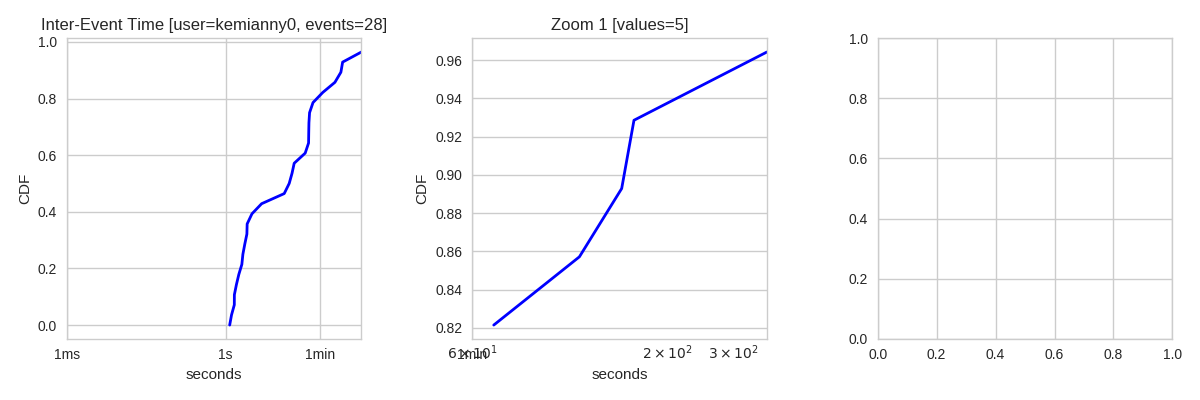
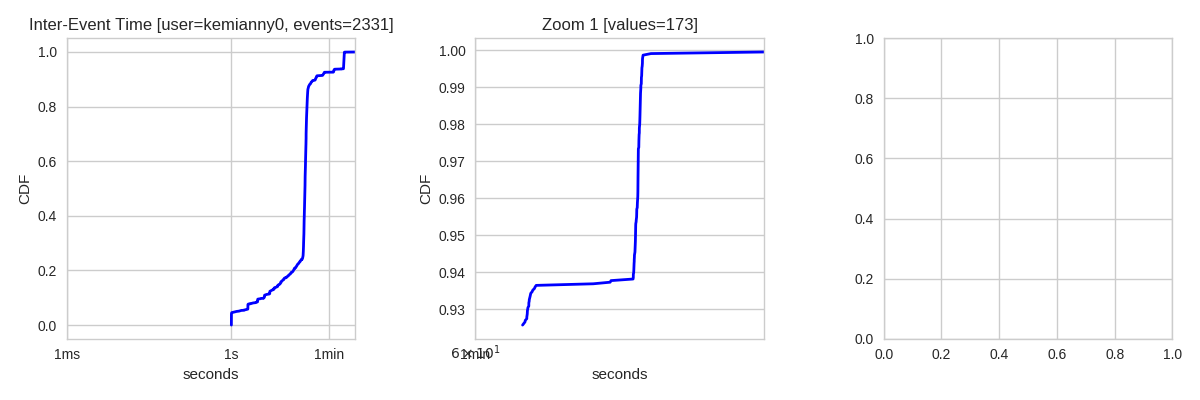
eliminating spikes or intervals depending on theoretical and real conts

diff --git a/inter_event_time_theoretical_count.py b/inter_event_time_theoretical_count.py
@@ -79,14 +79,6 @@ def main():
                         intv += 1
                     interval_list[intv].append(row[0])
 
-                """if url == 'google.com':
-                    print url
-                    for key, values in interval_list.iteritems():
-                        if key >= 0 and key <= 5:
-                            print key
-                            for item in values:
-                                print item"""
-
                 theoretic_count_per_url_list, real_count_per_url_list = calculate_average_periodicity(interval_list)
 
                 if theoretic_count_per_url_list:
@@ -159,13 +151,13 @@ def get_free_spikes_traces(interval_dict, url_domain):
 
     for key in interval_dict.keys():
 
-        if url_domain == 'content.very.co.uk':
+        if url_domain == 'stream1.bskyb.fyre.co':#'http.00.s.sophosxl.net':#'content.very.co.uk':
             iat_list = []
             int_list = interval_dict[key]
             for i in range(0, len(int_list)-1):
                 iat = (int_list[i+1]-int_list[i]).total_seconds()
                 iat_list.append(iat)
-            plot_cdf_interval_times(iat_list, 'kemianny'+str(key), 'main_laptop', 'figs_CDF_theoretic_counts', 'content.very.co.uk')
+            plot_cdf_interval_times(iat_list, 'kemianny'+str(key), 'main_laptop', 'figs_CDF_theoretic_counts', 'stream1.bskyb.fyre.co')
 
 
         distrib_dict = get_interval_distribution(key, interval_dict)
@@ -174,12 +166,12 @@ def get_free_spikes_traces(interval_dict, url_domain):
         for iat_total in distrib_dict.keys():
             #if potential spike
 
-            if url_domain == 'content.very.co.uk':
+            """if url_domain == 'stream1.bskyb.fyre.co':#'http.00.s.sophosxl.net':#'content.very.co.uk':
                 print '===='
                 print url_domain
                 print 'interval size: ' + str(iat_total)
                 print 'appears this many times: ' + str(distrib_dict[iat_total])
-                print 'total number of intervals: ' + str(distrib_dict['total'])
+                print 'total number of intervals: ' + str(distrib_dict['total'])"""
 
 
             if iat_total != 'total' and \
@@ -197,7 +189,7 @@ def get_free_spikes_traces(interval_dict, url_domain):
                     theoretic_count.append(theo_count)
                     real_count.append(re_count)
 
-                    if url_domain == 'content.very.co.uk':
+                    if url_domain == 'stream1.bskyb.fyre.co':
                         print '===='
                         print url_domain
                         print 'interval size: ' + str(iat_total)
@@ -211,13 +203,29 @@ def get_free_spikes_traces(interval_dict, url_domain):
                         error_margin = 0.1
                     else:
                         error_margin = 0.05
+                    if url_domain == 'stream1.bskyb.fyre.co':
+                        print 'recont ' + str(re_count)
+                        print 'limit ' + str(theo_count - theo_count*error_margin)
+                    #take whole interval off
                     if re_count > (theo_count - theo_count*error_margin):
-                        #print 'lele'
+                        print 'lele'
+                        filtered_interval_list = []
+                    #take only spike off
+                    else:
                         filtered_interval_list = eliminate_spikes(filtered_interval_list, iat_total)
 
         filtered_traces.append(filtered_interval_list)        
 
     filtered_traces = list(itertools.chain(*filtered_traces))
+
+    """if url_domain == 'stream1.bskyb.fyre.co':#'http.00.s.sophosxl.net':#'content.very.co.uk':
+        iat_list = []
+        int_list = filtered_traces
+        for i in range(0, len(int_list)-1):
+            iat = (int_list[i+1]-int_list[i]).total_seconds()
+            iat_list.append(iat)
+            plot_cdf_interval_times(iat_list, 'kemianny'+str(key), 'main_laptop', 'figs_CDF_theoretic_counts', 'stream1.bskyb.fyre.co')"""
+
 
     #print filtered_traces
     return filtered_traces

diff --git a/inter_event_time_by_url_analysis.py b/inter_event_time_by_url_analysis.py
@@ -88,7 +88,7 @@ def get_filtered_traces():
             idt = user_id[0]
 
             #if idt != 'bowen.laptop' and idt != 'bridgeman.laptop2' and idt != 'bridgeman.stuartlaptop' and idt != 'chrismaley.loungepc' and idt != 'chrismaley.mainpc' and idt != 'clifford.mainlaptop' and idt != 'gluch.laptop' and idt != 'kemianny.mainlaptop' and idt != 'neenagupta.workpc':
-            if idt != 'kemianny.mainlaptop': 
+            if idt != 'clifford.mainlaptop':#'kemianny.mainlaptop': 
                 continue
 
             for row in ses.execute(text(sql_url).bindparams(d_id = elem_id)):
@@ -128,14 +128,16 @@ def get_filtered_traces():
                 #eliminate spikes
                 if traces_dict[valid_url]:
 
-                    #if valid_url == 'content.very.co.uk':
-                        #print 'BEFORE filtering'
+                    if valid_url == 'stream1.bskyb.fyre.co':
+                        print 'BEFORE filtering'
+                        print len(traces_dict[valid_url])
                         #for elem in traces_dict[valid_url]:
                             #print elem
 
                     traces_dict[valid_url] = filter_spikes(traces_dict[valid_url], valid_url)
-                    #if valid_url == 'content.very.co.uk':
-                        #print 'after FILTERING'
+                    if valid_url == 'stream1.bskyb.fyre.co':
+                        print 'after FILTERING'
+                        print len(traces_dict[valid_url])
                         #for elem in traces_dict[valid_url]:
                             #print elem
             #get inter event times per query domain
@@ -200,17 +202,23 @@ def filter_spikes(traces_list, url_domain):
     pre_filtered_list = []
     cont = 0
     while pre_filtered_list != traces_list:
+        if url_domain == 'stream1.bskyb.fyre.co':
+            print 'antes'
+            print  len(traces_list)
         pre_filtered_list = traces_list
         interval_list = get_interval_list(traces_list)
         traces_list = get_free_spikes_traces(interval_list, url_domain)
         cont +=1
+        if url_domain == 'stream1.bskyb.fyre.co':
+            print 'depois'
+            print len(traces_list)
         #if url_domain == 'su.ff.avast.com':
             #print interval_list
-        """if traces_list != pre_filtered_list:
+        if traces_list != pre_filtered_list and url_domain == 'stream1.bskyb.fyre.co':
             print '===== round ' + str(cont)
             print url_domain
             print len(pre_filtered_list)
-            print len(traces_list)"""
+            print len(traces_list)
 
     return traces_list
 

diff --git a/.#inter_event_time_compare_daily_usage.py b/.#inter_event_time_compare_daily_usage.py
@@ -1,0 +1,1 @@
+mleaoluc@ucn.inria.fr.24116:1450104842
